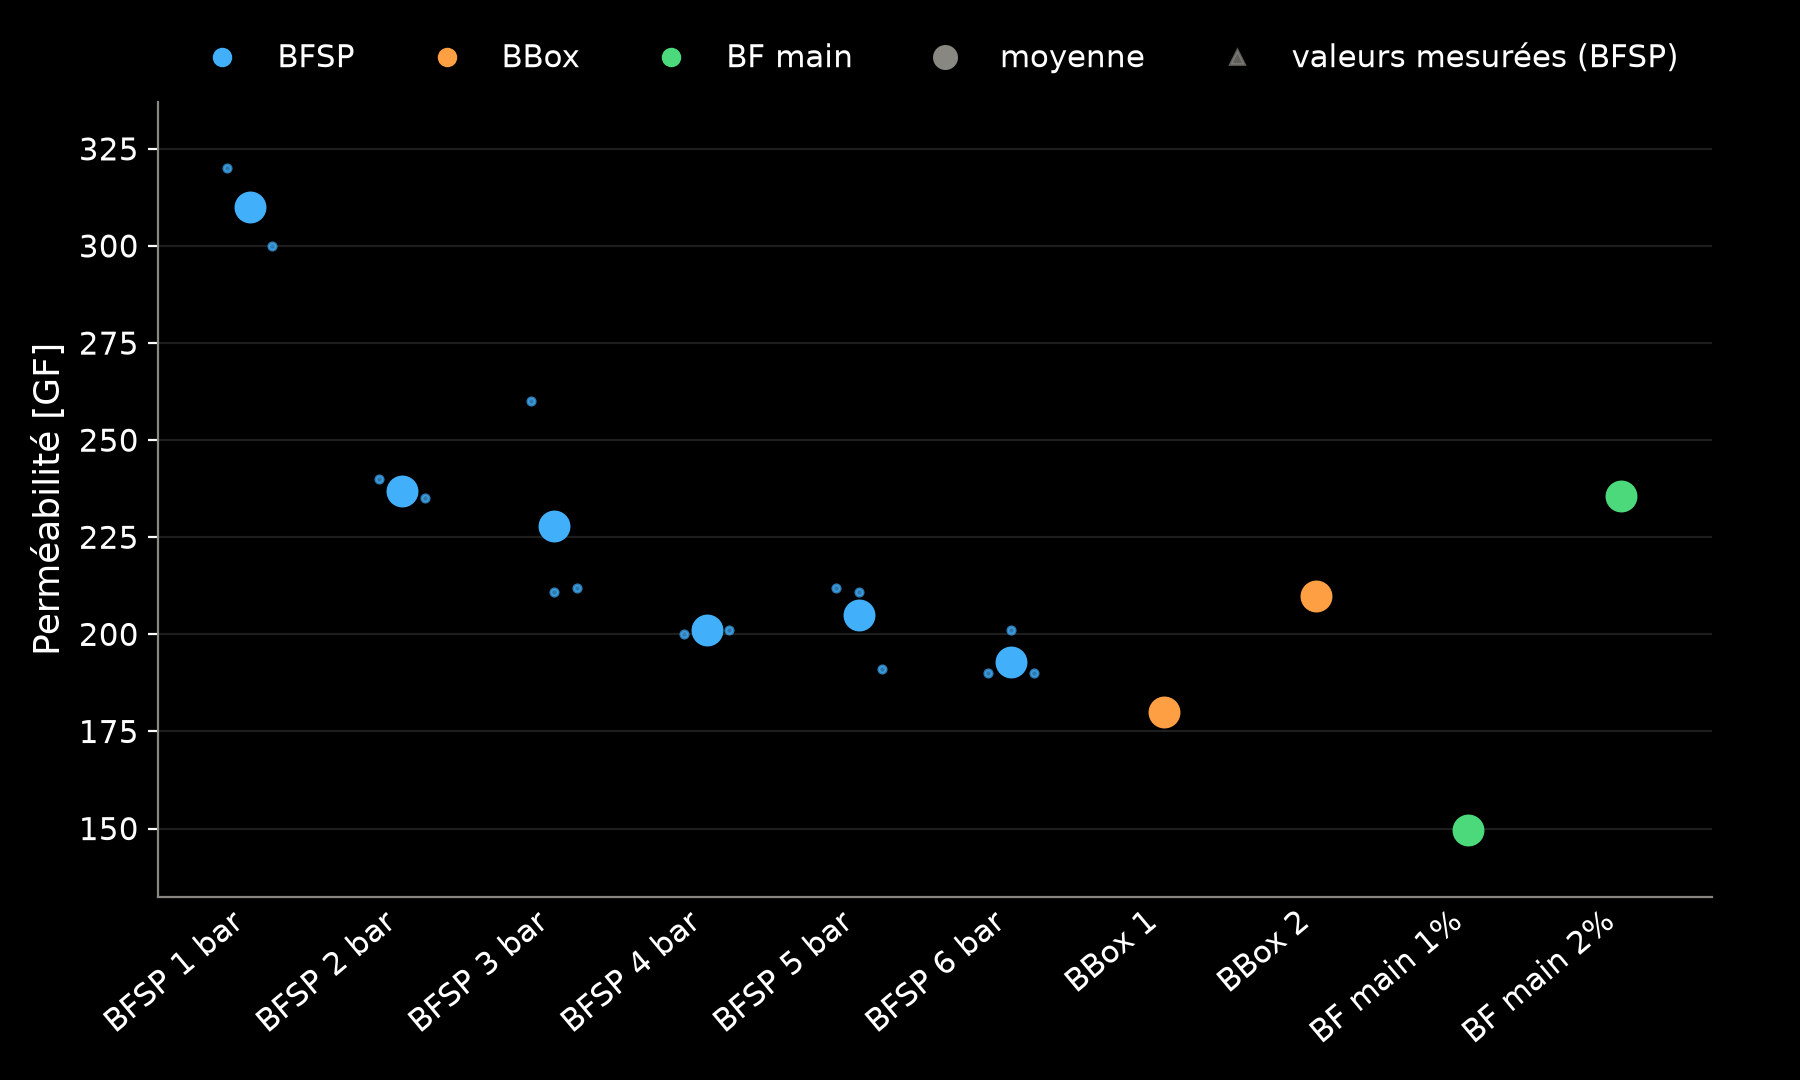
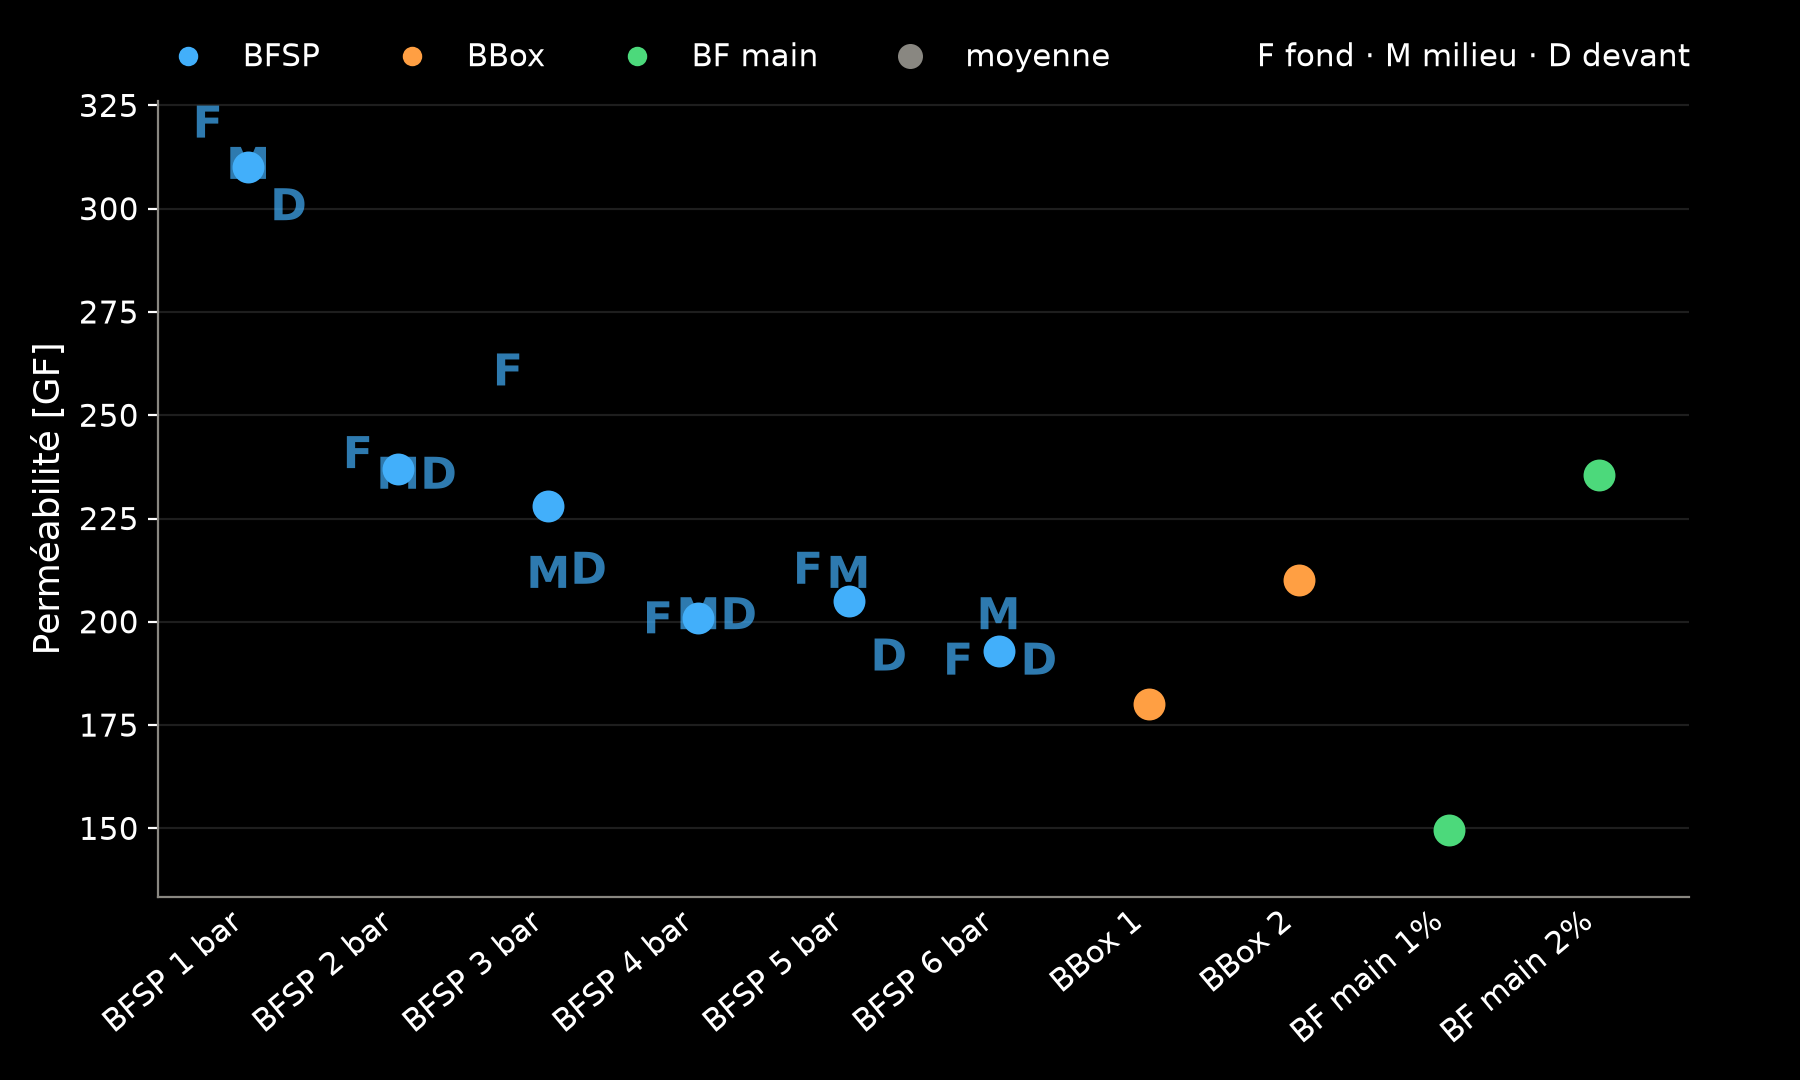
Larger F/M/D letters instead of dots

diff --git a/scripts/plot_scatter.py b/scripts/plot_scatter.py
@@ -61,8 +61,9 @@ for q, (table_id, label) in QUANTITIES.items():
             ax.scatter(x, v, s=110, color=col, zorder=3)
             if name.startswith("BFSP"):
                 vals = raw[q][int(name.split()[1])]
-                ax.scatter([x - 0.15, x, x + 0.15], vals, s=28, marker=".", color=col,
-                           alpha=0.7, zorder=4)
+                for dx, letter, v in zip((-0.27, 0, 0.27), "FMD", vals):
+                    ax.text(x + dx, v, letter, color=col, alpha=0.7, fontsize=16,
+                            fontweight="bold", ha="center", va="center", zorder=4)
         ax.set_xticks(range(len(pts)), [n for n, _ in pts], rotation=40, ha="right",
                       color=c["fg"], fontsize=11)
         ax.tick_params(axis="y", colors=c["fg"], labelsize=11)
@@ -80,8 +81,7 @@ for q, (table_id, label) in QUANTITIES.items():
                    for g, col in COLORS.items()]
         handles += [Line2D([], [], marker="o", linestyle="", color=c["muted"], markersize=8,
                            label="moyenne"),
-                    Line2D([], [], marker="^", linestyle="", color=c["muted"], alpha=0.7,
-                           markersize=5, label="valeurs mesurées (BFSP)")]
+                    Line2D([], [], linestyle="", label="F fond · M milieu · D devant")]
         ax.legend(handles=handles, loc="lower center", bbox_to_anchor=(0.5, 1.0), ncol=5,
                   frameon=False, fontsize=11, labelcolor=c["fg"])
         fig.tight_layout()
